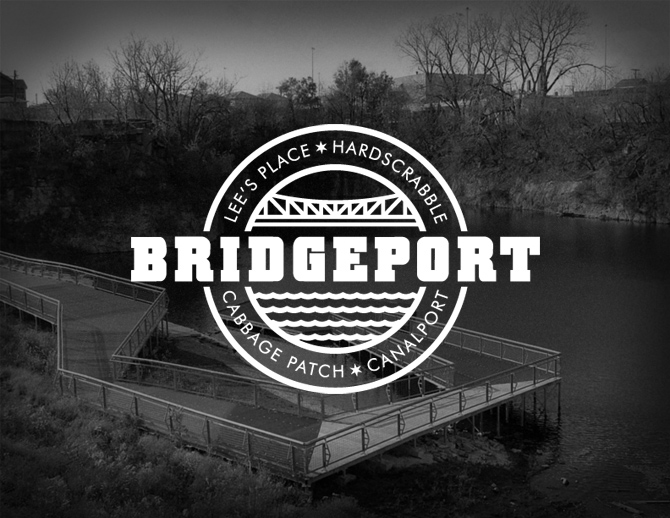
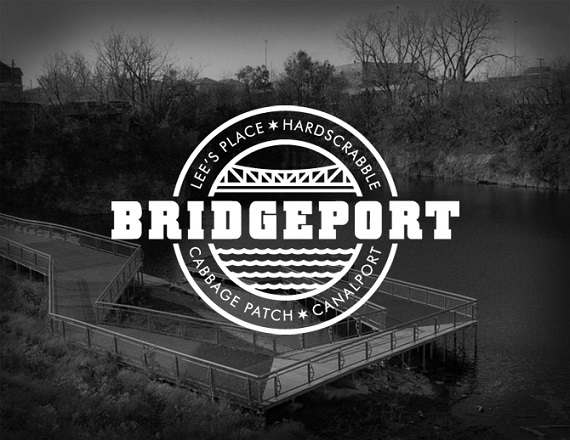
testing image resize
smaller picture

diff --git a/PerPro.html b/PerPro.html
@@ -51,3 +51,4 @@ My Favorites games are:</p>
 until the website became spammed with fake user accounts posting Gore and other unneccesary content, It was also attacked
 by Redirects making the site basically in operable. I haven't visited the site since but I do now but it doesn't feel
 the same and the userbase seems to have died down</p>
+</html>

diff --git a/resume.html b/resume.html
@@ -42,3 +42,4 @@ Veteran’s Assistance Commission of Cook County, Chicago, IL
 <li>Perform troubleshooting through diagnostic techniques and pertinent questions</li>
 <li>Generate documents for monthly activity and expense reports spreadsheet</li>
 </ul>
+</html>
